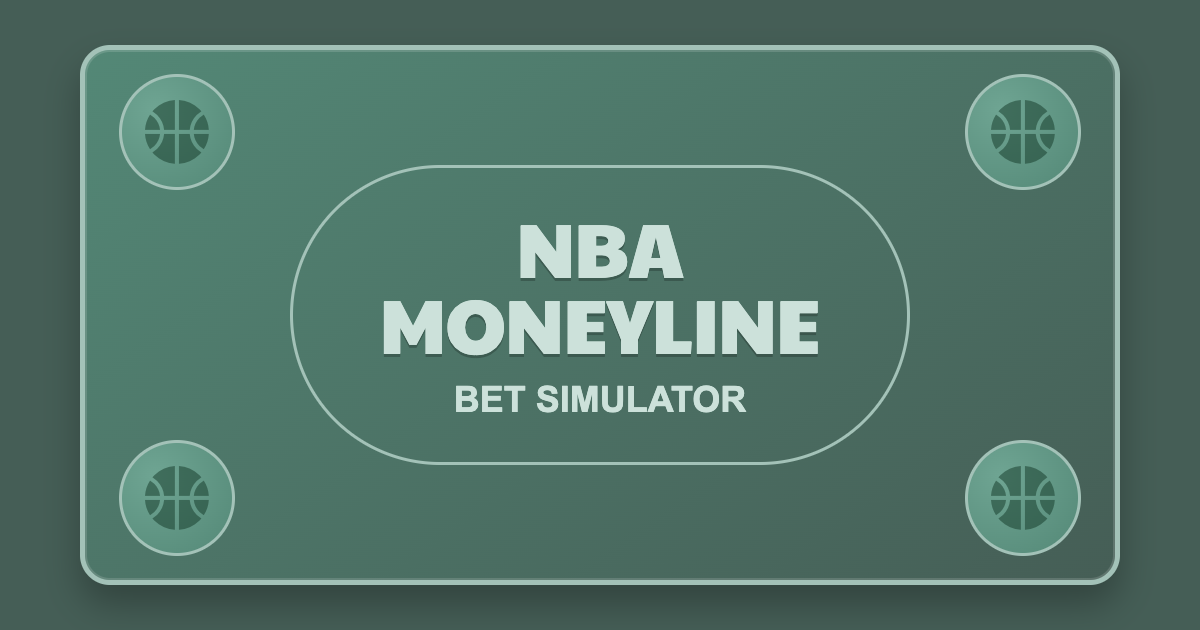
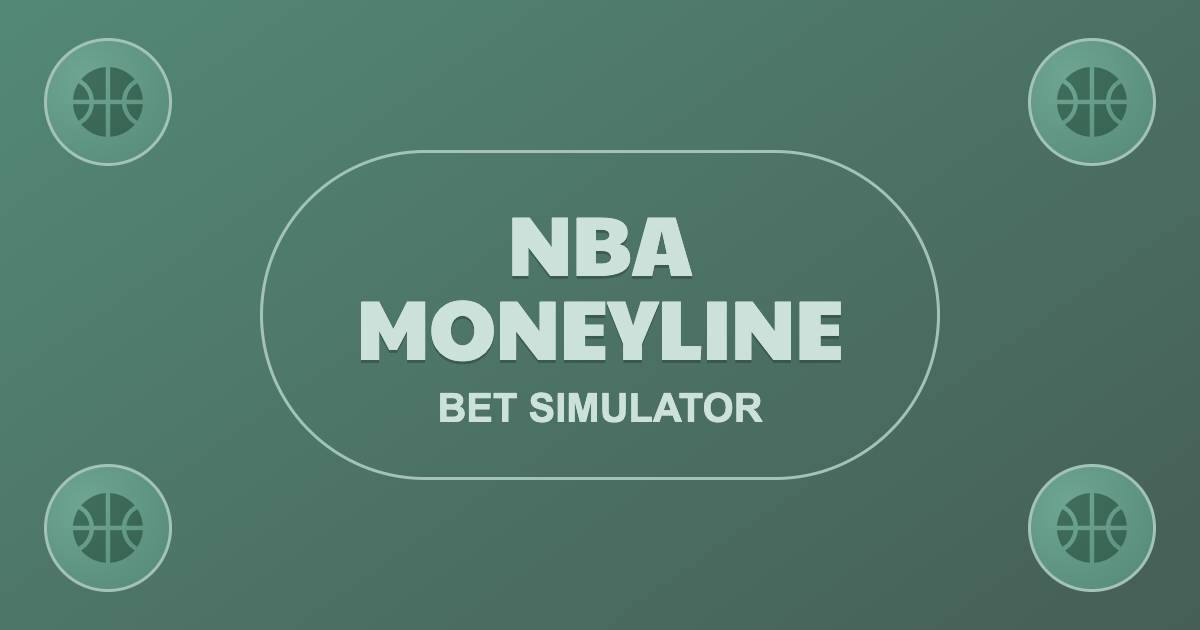
updating og image

diff --git a/public/index.html b/public/index.html
@@ -1,4 +1,4 @@
-<!DOCTYPE html>
+<!doctype html>
 <html lang="en">
 	<head>
 		<meta charset="UTF-8" />
@@ -15,12 +15,21 @@
 		<meta property="og:type" content="website" />
 		<meta property="og:url" content="https://nba-moneyline.vercel.app/" />
 		<meta property="og:title" content="NBA Moneyline Bet Simulator" />
-		<meta property="og:description" content="Pick a team to win or lose every game of a season. Could this simple moneyline strategy actually pay off?" />
-		<meta property="og:image" content="https://nba-moneyline.vercel.app/og-image.png" />
+		<meta
+			property="og:description"
+			content="Pick a team to win or lose every game of a season. Could this simple moneyline strategy actually pay off?"
+		/>
+		<meta
+			property="og:image"
+			content="https://nba-moneyline.vercel.app/og-image.png"
+		/>
 		<meta property="og:image:width" content="1200" />
 		<meta property="og:image:height" content="630" />
 		<meta name="twitter:card" content="summary_large_image" />
-		<meta name="twitter:image" content="https://nba-moneyline.vercel.app/og-image.png" />
+		<meta
+			name="twitter:image"
+			content="https://nba-moneyline.vercel.app/og-image.png"
+		/>
 	</head>
 	<body>
 		<div id="app" class="awaitingFirstSubmit">